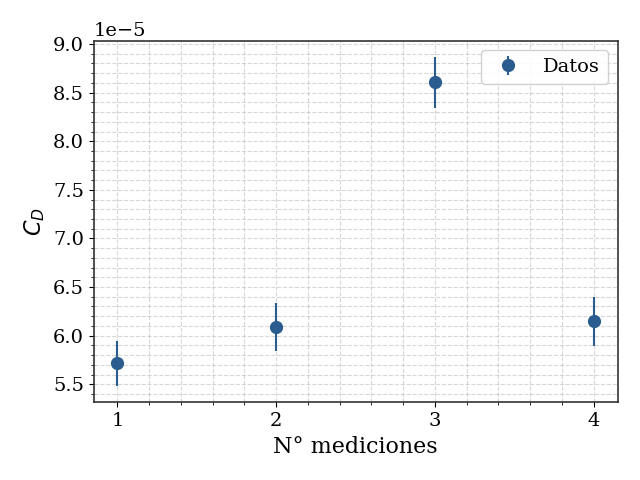
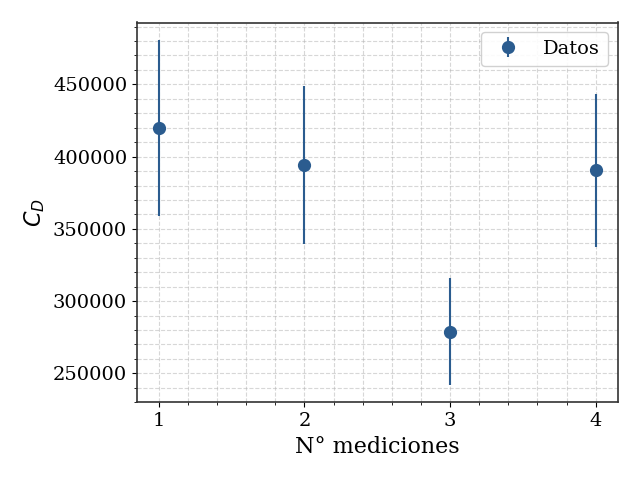
hice fuerza drag

Changed region(s): [[0.0625, 0.0312, 0.9688, 0.9688], [0.0312, 0.4062, 0.0938, 0.5]]

diff --git a/practica3/clase4/calculo_fuerza_drag.py b/practica3/clase4/calculo_fuerza_drag.py
@@ -11,8 +11,10 @@ velocidad = aceleración * tiempo # um s**-1
 v_e = np.sqrt(((tiempo*a_e)**2) + ((aceleración*t_e)**2))
 dist_px = 0.094 # um px**-1
 d_px_e = 0.005 # um px**-1
-diametro = np.array([31,33,34,34]) * dist_px # um
-diam_e = np.sqrt((0 * dist_px)**2 + (d_px_e)**2) # um; voy a probar a no ponerle error al diám que medimos
+pixeles = np.array([31,33,34,34])
+diametro = pixeles * dist_px # um
+pix_e = 4 # px; voy a probar a no ponerle error al diám que medimos
+diam_e = np.sqrt(((dist_px*pix_e)**2) + ((pixeles*d_px_e)**2)) # um
 print(diametro)
 print(diam_e) 
 print(diametro)
@@ -41,7 +43,7 @@ c_d = 24 / Re # adim
 cd_e = (c_d / Re) * Re_e
 
 fig3, ax3 = plt.subplots()
-ax3.errorbar(["1", "2", "3", "4",], Re,yerr=Re_e, fmt="o", label="Datos")
+ax3.errorbar(["1", "2", "3", "4",], c_d,yerr=cd_e, fmt="o", label="Datos")
 ax3.set_xlabel("N° mediciones")
 ax3.set_ylabel(r"$C_D$")
 ax3.legend()
@@ -68,9 +70,41 @@ ax4.legend()
 fig4.savefig("FuerzaArrastre.png")
 fig4.show()
 #%% voy a hacer una cuenta para ver por qué tenemos tanto error
-f_d2 = 3*np.pi*nu*velocidad*rho*diametro
+f_d2 = 3*np.pi*nu*velocidad*rho*diametro * 1e6 # pN
 rel_vel = (v_e/velocidad) * 100
 rel_diam = (diam_e/diametro) * 100
 print(np.mean(rel_vel))
 print(np.mean(rel_diam))
 print(f_d2)
+# tomemos un promedio
+f_p = np.mean(f_d2) # pN
+n = len(velocidad)
+diam_prom_e = np.sqrt(((dist_px*pix_e)**2)/n + ((np.mean(pixeles)*d_px_e)**2)) # um
+d_diam_prom = 3*np.pi*nu*np.mean(velocidad)*rho * 1e6 # pN um**-1
+d_vel_prom = 3*np.pi*nu*rho*np.mean(diametro) * 1e6 #  pN s um**-1
+v_e_prom = np.mean(v_e) # um s**-1
+fp_e = np.sqrt((d_diam_prom * diam_prom_e)**2 + ((d_vel_prom * v_e_prom)**2)/n) #pN
+print(f"({f_p:.3f} +- {fp_e:.8f}) pN")
+
+
+#%% aca esta la misma cuenta pero mas prolijo
+n = len(velocidad)
+n = 20
+k = 3*np.pi*nu*rho * 1e6        # conversión a pN incluida (una sola vez)
+
+v_prom = np.mean(velocidad)     # um/s
+D_prom = np.mean(diametro)      # um
+f_p = k * v_prom * D_prom       # pN
+
+# Var(D̄): estadístico (baja con n) + sistemático (calibración), en um²
+var_D = (dist_px*pix_e)**2 / n + (np.mean(pixeles)*d_px_e)**2
+
+# Var(v̄): t independiente entre mediciones; a compartida (no baja con n), en (um/s)²
+var_v = (aceleración*t_e)**2 / n + (np.mean(tiempo)*a_e)**2
+
+dF_dD = k * v_prom              # pN/um
+dF_dv = k * D_prom              # pN/(um/s)
+
+fp_e = np.sqrt(dF_dD**2 * var_D + dF_dv**2 * var_v)   # pN
+print(f"({f_p:.3f} +- {fp_e:.3f}) pN")
+print("Error relativo de F_prom = "f"{fp_e*100 / f_p:.1f} %")
